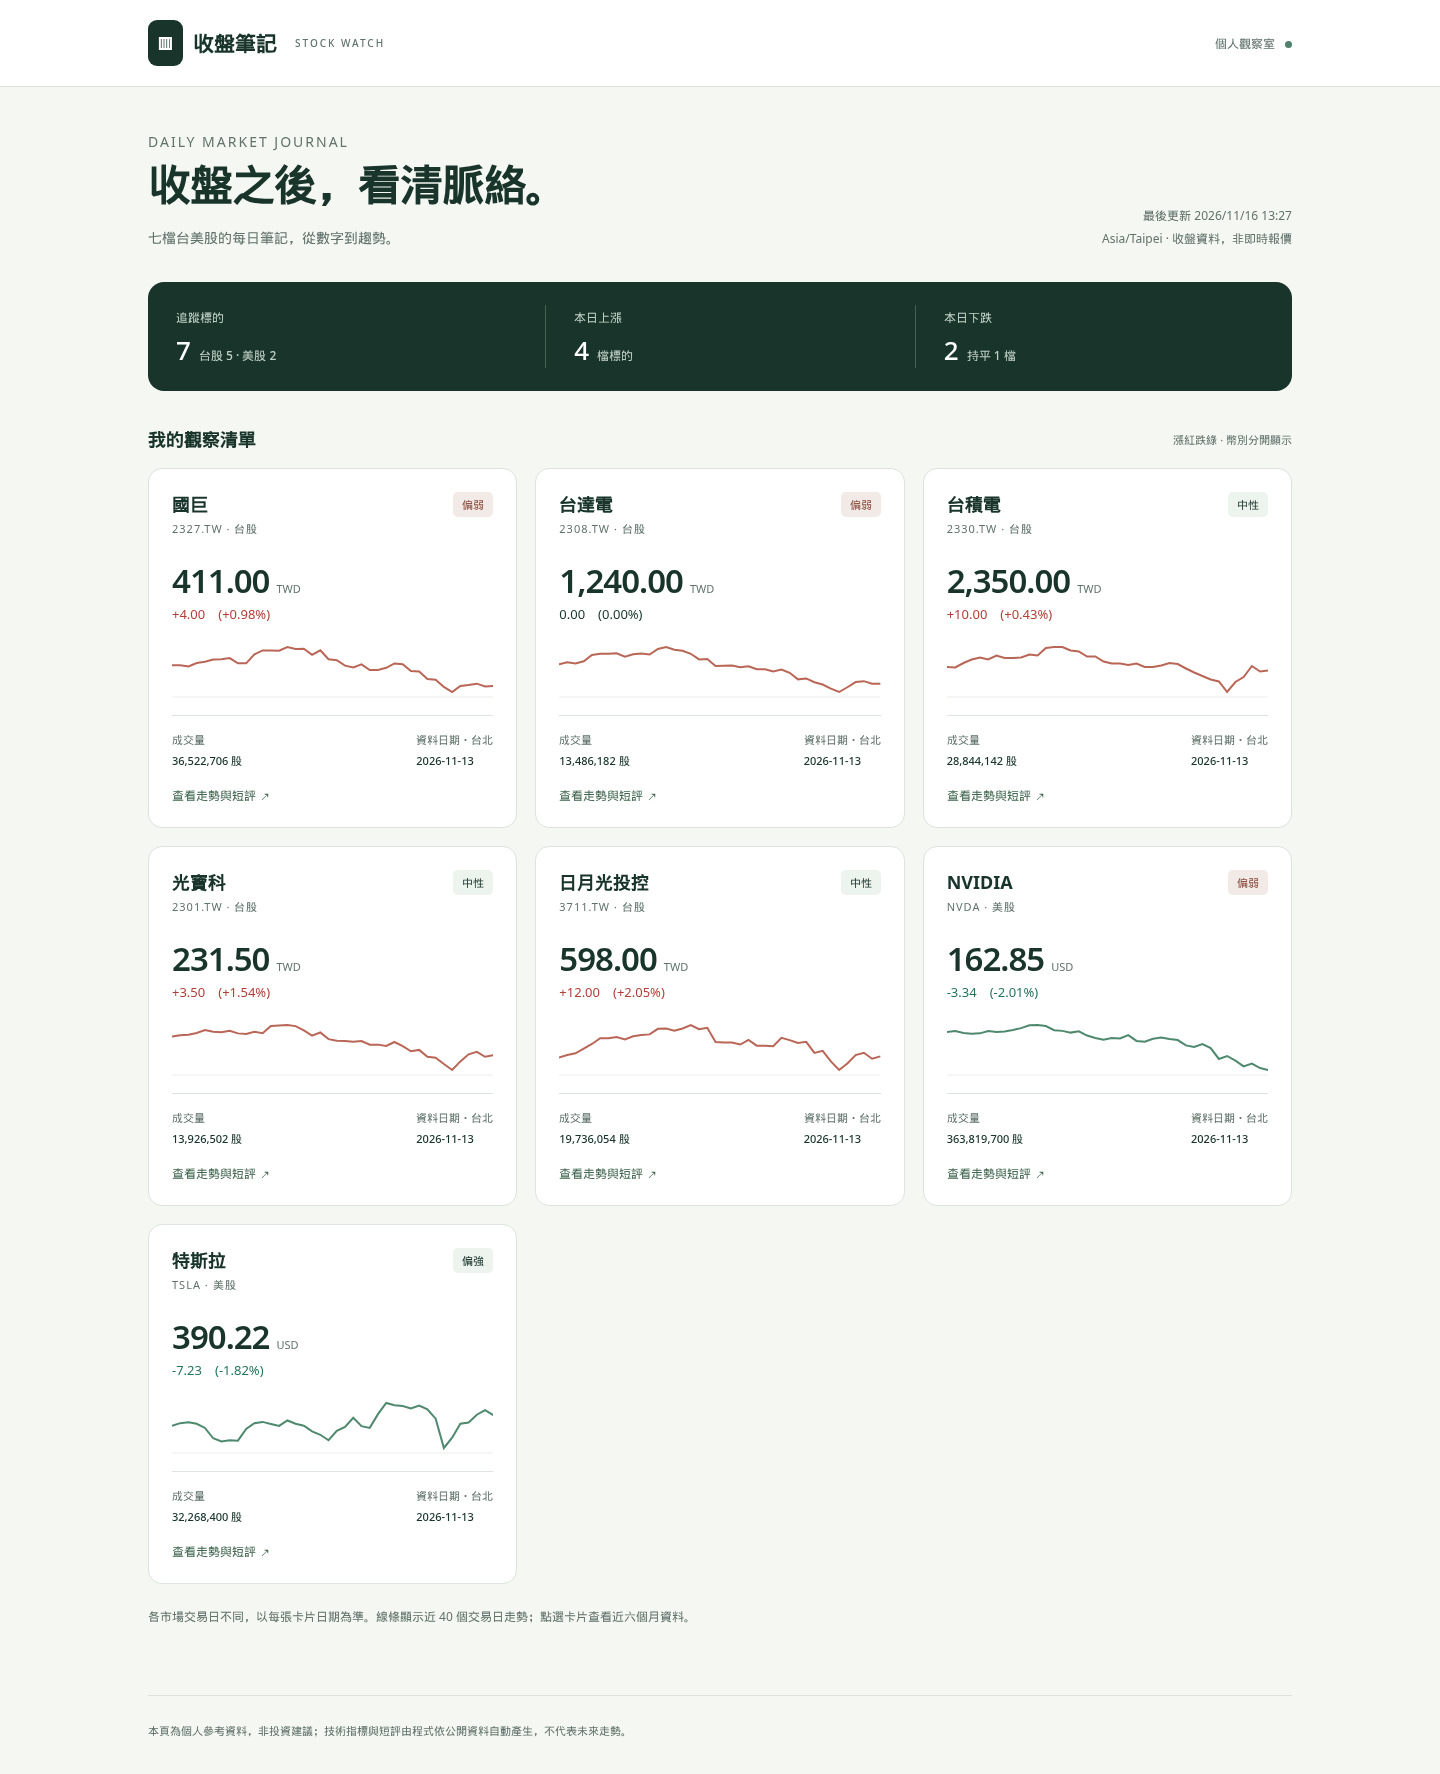
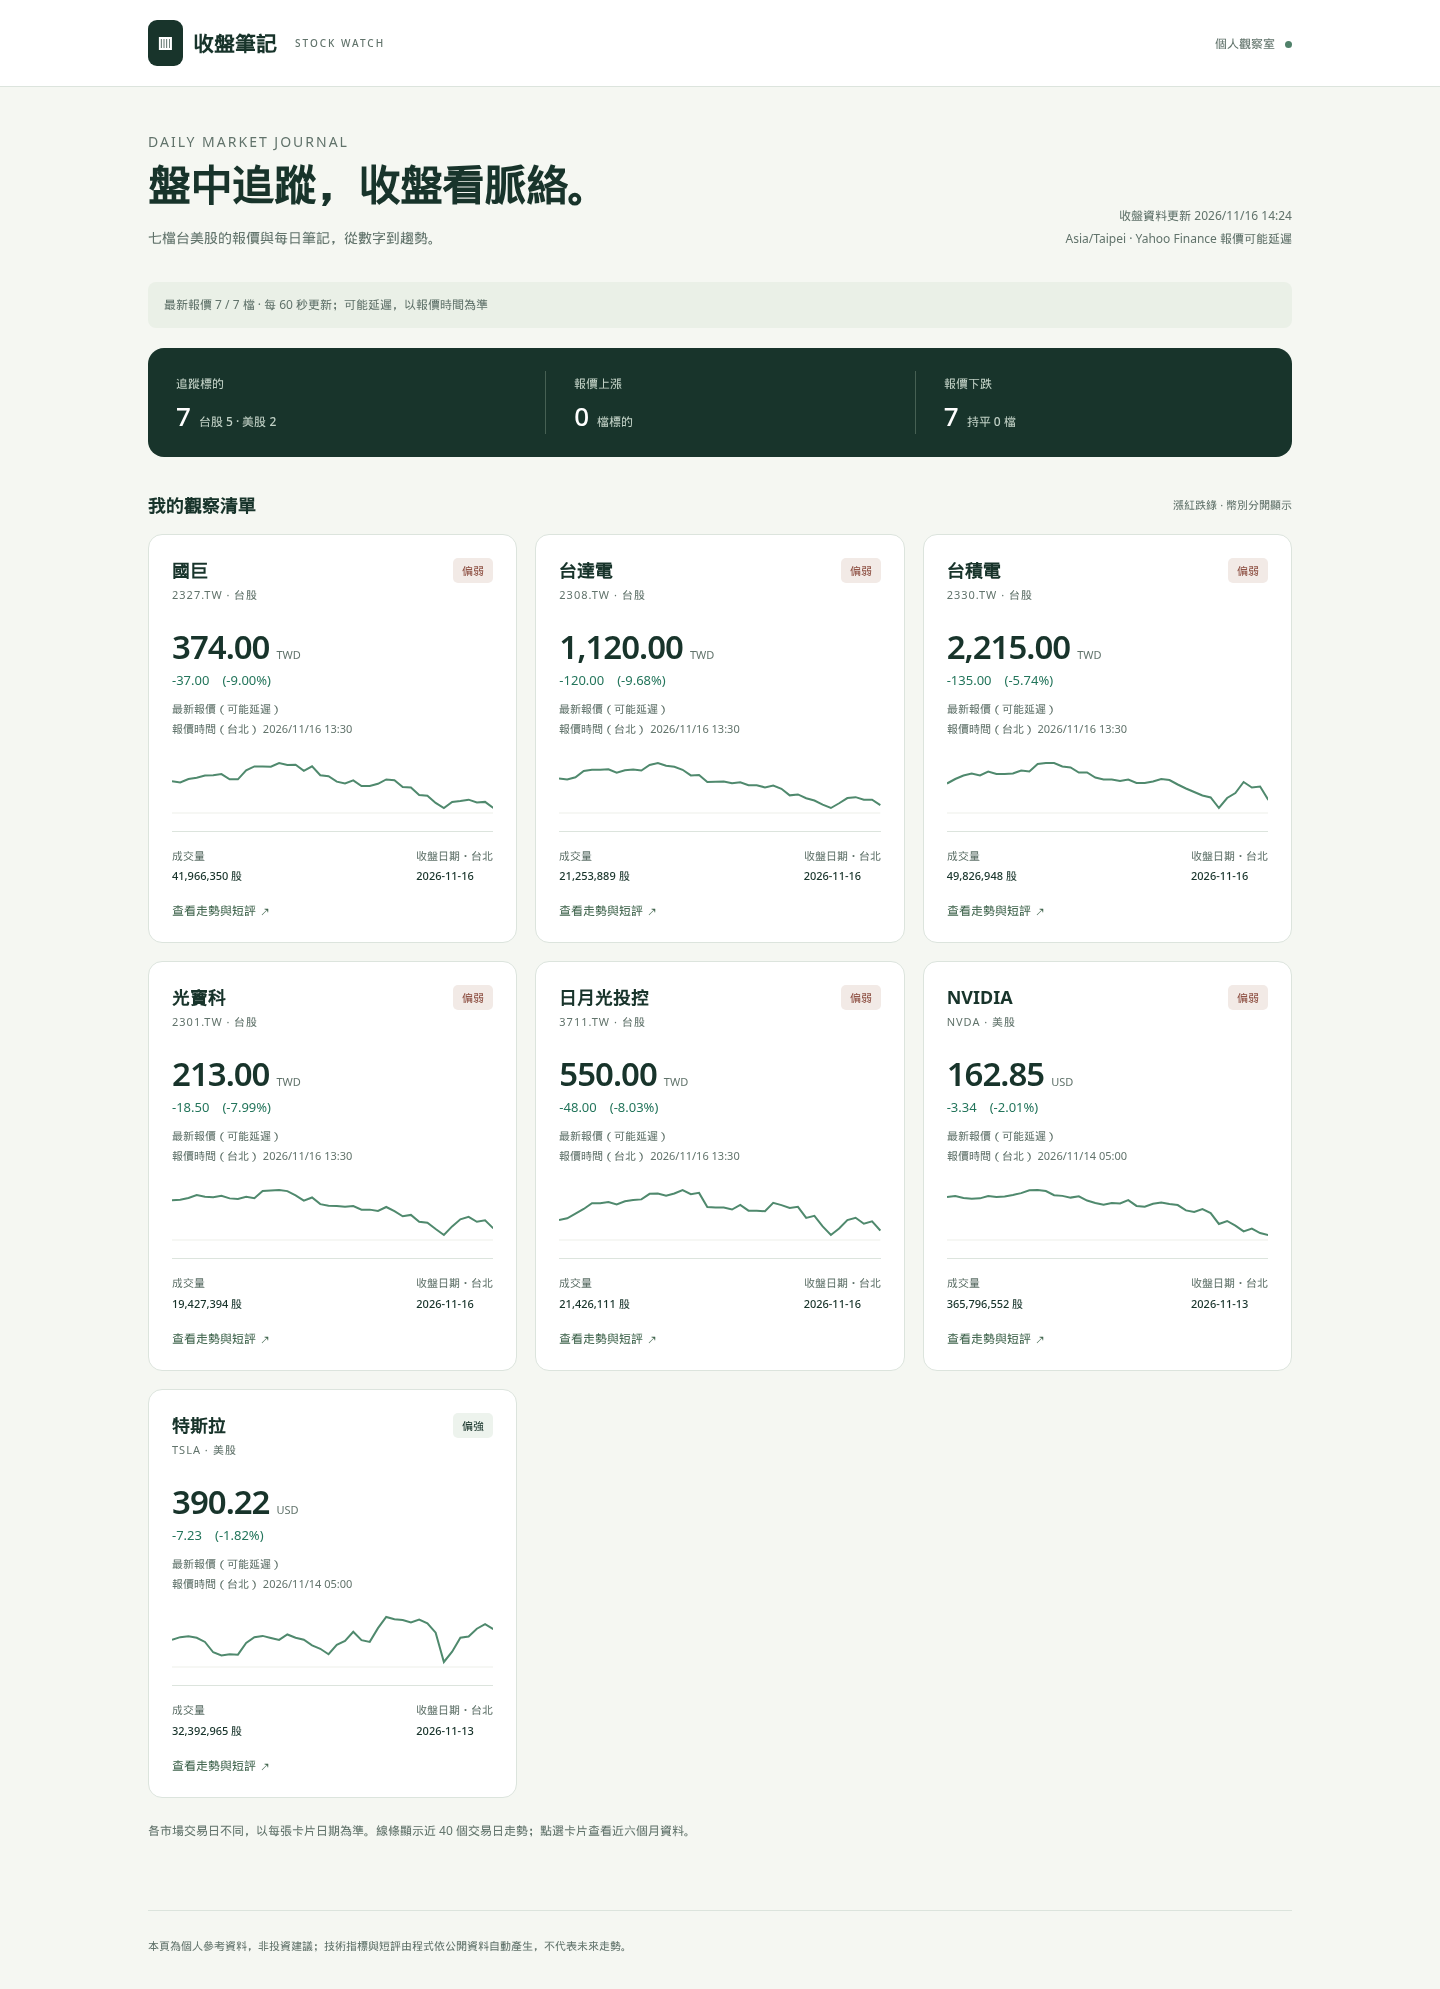
docs: record v1.1 deployed verification and mobile desktop screenshots

diff --git a/SUMMARY_v1.1.md b/SUMMARY_v1.1.md
@@ -1,0 +1,27 @@
+# Stock Watch v1.1 交付摘要
+
+- 網站：<https://edjumptw.github.io/stock-watch/>
+- 報價 Worker：<https://stock-watch-quotes.jumpbotofficejumpbotoffice.workers.dev/quotes>
+- 部署程式碼：`worker/index.js`、`worker/wrangler.jsonc`；README 已寫重新部署與驗收命令。
+- Worker 版本：`060b32bd-bda1-4e76-9a10-fbabe9f294f0`。
+
+## 完成內容
+
+1. 使用已登入帳號透過 wrangler 部署單一 workers.dev Worker，未購買網域、未啟用付費方案、未建立 KV／D1 等其他 Cloudflare 資源，沒有金鑰寫入 repo。
+2. 僅接受 `https://edjumptw.github.io` Origin，拒絕其他來源或缺少 Origin；僅允許固定七檔，路徑限定 `GET /quotes`（另提供 OPTIONS），拒絕任意代號、URL 或查詢參數。CORS 是瀏覽器來源限制，非身分驗證，非瀏覽器仍可偽造 Origin。
+3. 成功報價以 Cache API 快取 45 秒，正式端點已觀察 `X-Quote-Cache: HIT`；快取各資料中心獨立。供應端 Yahoo Finance 無需金鑰，資料可能延遲或限流，不能保證交易所即時行情。
+4. 首頁與詳細頁使用最新報價與漲跌，顯示供應端報價時間（台北），頁面可見時每 60 秒讀取，切回頁面重讀。請求逾時（10 秒）、失敗、格式無效或缺少個股時退回既有收盤 JSON，並清除前一次盤中價與顯示回退說明。
+5. 收盤圖、均線、RSI、短評與技術強弱維持原有收盤資料。價格縱軸由收盤及三條均線的實際範圍加留白決定，成交量從零、RSI 固定 0–100，價格刻度格式統一。
+6. 已推送 main。原流程因 Google News HTTP 503 擋住介面部署，已將程式碼 push 改為驗證並部署既有完整收盤資料；排程／手動更新維持全部成功後才發布。
+
+## 驗收
+
+- `node --check app.js`、`node tests/test_worker.mjs`、Python 2 個資料／RSI 測試通過。
+- 正式網址 `.venv/bin/python scripts/check_quotes.py` 通過：七檔真實報價、來源／任意代號拒絕、七檔價格縱軸、390px 無溢出、無 JS 錯誤，以及上游失敗、部分缺漏、無效報價回退。
+- 手動完整資料更新與部署成功：[Actions 43816425373](https://github.com/edjumptw/stock-watch/actions/runs/43816425373)；Google News 503 為暫時性故障，重試後恢復。
+- 前端部署成功：[Actions 43816408412](https://github.com/edjumptw/stock-watch/actions/runs/43816408412)。
+- 真實報價截圖：`screenshots/home-mobile.png`、`screenshots/home-desktop.png`、`screenshots/detail-mobile.png`、`screenshots/detail-desktop.png`。
+- 模擬斷線後使用真實收盤資料截圖：`screenshots/fallback-mobile.png`、`screenshots/fallback-desktop.png`。
+- localhost 非允許來源，預期顯示收盤回退；正式來源的完整驗收已通過。
+
+DONE

diff --git a/README.md b/README.md
@@ -82,3 +82,13 @@ node tests/test_worker.mjs
 ```
 
 使用既有 workers.dev 子網域，不新增付費資源。若更換 Worker 網址，須一併修改 `app.js` 的 `QUOTE_URL` 並推送部署 GitHub Pages。加減股票時，也必須同步調整 Worker 的 `SYMBOLS` 白名單。憑證只由 wrangler 存於本機設定，**不得提交 token、cookie 或金鑰**。本機 localhost 不在允許來源，會正常顯示收盤回退；完整報價驗證請使用正式 Pages 來源。
+
+v1.1 瀏覽器驗收（需 Playwright；會讀取真正 Worker 並保存首頁、詳細頁及回退畫面）：
+
+```bash
+.venv/bin/python scripts/check_quotes.py
+# 尚未發布時，以正式來源載入本機檔案、連線真正 Worker
+LOCAL_SITE=1 .venv/bin/python scripts/check_quotes.py
+```
+
+驗收包含七檔報價、拒絕非允許來源／任意代號、七檔縱軸範圍、390px 與桌面截圖，以及模擬失敗／部分／無效回應的回退；模擬資料不會寫入正式股價 JSON。
